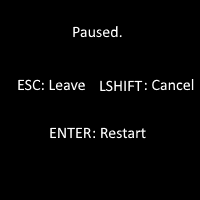
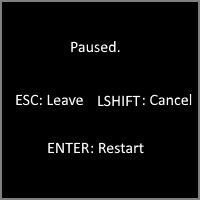
1.4.81

diff --git a/Rects Fight 1.4/Main.py b/Rects Fight 1.4/Main.py
@@ -500,18 +500,18 @@ class Game():
             # Drawing
             all_sprites.update()
             screen.fill(Global.black)
-            if confirm:
-                screen.blit(Media.paused, (150, 180))
             screen.blit(Media.wall,(0, 0))
             screen.blit(MainFetch('hp', 'player1'), (20, 530))
             screen.blit(MainFetch('hp', 'player2'), (380, 530))
             screen.blit(txt, (textlocal))
             screen.blit(textstatic1, (19, 515))
             screen.blit(textstatic2, (429, 515))
-            if not onEnd:
-                screen.blit(textstatic3, (200, 502))
-                screen.blit(textstatic4, (203, 517))
             all_sprites.draw(screen)
+            if not onEnd:
+                screen.blit(textstatic3, (395, 10))
+                screen.blit(textstatic4, (10, 10))
+            if confirm:
+                screen.blit(Media.paused, (154, 165))
             pygame.display.flip()
             clock.tick(60)
 if __name__ == '__main__':
